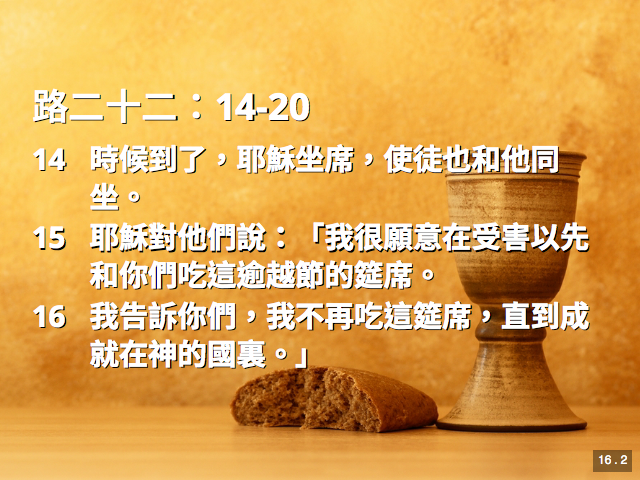
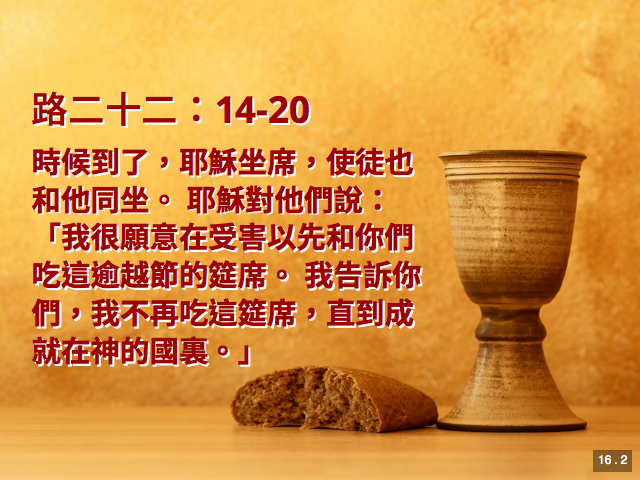
update

Changed region(s): [[0.0312, 0.1875, 0.9375, 0.7812]]

diff --git a/index.html b/index.html
@@ -587,41 +587,29 @@
 </section>
 </section>
 
-
 <section data-background-image="background/holy_communion_3.jpg" id="section12" class="bible">
 <section>
 	<h1>聖餐</h1>
 </section>
 <section>
 <h2>路二十二：14-20</h2>
-<div class="caption"><p>14</p></div>
-<div class="verse"><p>時候到了，耶穌坐席，使徒也和他同坐。</p>
-</div>
-<div class="clear"></div>
-<div class="caption"><p>15</p></div>
-<div class="verse"><p>耶穌對他們說：「我很願意在受害以先和你們吃這逾越節的筵席。</p>
-</div>
-<div class="clear"></div>
-<div class="caption"><p>16</p></div>
-<div class="verse"><p>我告訴你們，我不再吃這筵席，直到成就在神的國裏。」</p>
-</div>
+<p>
+時候到了，耶穌坐席，使徒也和他同坐。
+耶穌對他們說：「我很願意在受害以先和你們吃這逾越節的筵席。
+我告訴你們，我不再吃這筵席，直到成就在神的國裏。」
+</p>
 </section>
 <section>
-<div class="caption"><p>17</p></div>
-<div class="verse"><p>耶穌接過杯來，祝謝了，說：「你們拿這個，大家分着喝。</p>
-</div>
-<div class="clear"></div>
-<div class="caption"><p>18</p></div>
-<div class="verse"><p>我告訴你們，從今以後，我不再喝這葡萄汁，直等神的國來到。」</p>
-</div>
-<div class="clear"></div>
-<div class="caption"><p>19</p></div>
-<div class="verse"><p>又拿起餅來，祝謝了，就擘開，遞給他們，說：「這是我的身體，為你們捨的，你們也應當如此行，為的是記念我。」</p>
-</div>
-<div class="clear"></div>
-<div class="caption"><p>20</p></div>
-<div class="verse"><p>飯後也照樣拿起杯來，說：「這杯是用我血所立的新約，是為你們流出來的。</p>
-</div>
+<p>
+耶穌接過杯來，祝謝了，說：「你們拿這個，大家分着喝。
+我告訴你們，從今以後，我不再喝這葡萄汁，直等神的國來到。」
+</p>
+</section>
+<section>
+<p>
+又拿起餅來，祝謝了，就擘開，遞給他們，說：「這是我的身體，為你們捨的，你們也應當如此行，為的是記念我。」<br/>
+飯後也照樣拿起杯來，說：「這杯是用我血所立的新約，是為你們流出來的。
+</p>
 </section>
 </section>
 

diff --git a/index_pdf.html b/index_pdf.html
@@ -594,36 +594,26 @@
 </section>
 <section>
 <h2>路二十二：14-20</h2>
-<div class="caption"><p>14</p></div>
-<div class="verse"><p>時候到了，耶穌坐席，使徒也和他同坐。</p>
-</div>
-<div class="clear"></div>
-<div class="caption"><p>15</p></div>
-<div class="verse"><p>耶穌對他們說：「我很願意在受害以先和你們吃這逾越節的筵席。</p>
-</div>
-<div class="clear"></div>
-<div class="caption"><p>16</p></div>
-<div class="verse"><p>我告訴你們，我不再吃這筵席，直到成就在神的國裏。」</p>
-</div>
+<p>
+時候到了，耶穌坐席，使徒也和他同坐。
+耶穌對他們說：「我很願意在受害以先和你們吃這逾越節的筵席。
+我告訴你們，我不再吃這筵席，直到成就在神的國裏。」
+</p>
 </section>
 <section>
-<div class="caption"><p>17</p></div>
-<div class="verse"><p>耶穌接過杯來，祝謝了，說：「你們拿這個，大家分着喝。</p>
-</div>
-<div class="clear"></div>
-<div class="caption"><p>18</p></div>
-<div class="verse"><p>我告訴你們，從今以後，我不再喝這葡萄汁，直等神的國來到。」</p>
-</div>
-<div class="clear"></div>
-<div class="caption"><p>19</p></div>
-<div class="verse"><p>又拿起餅來，祝謝了，就擘開，遞給他們，說：「這是我的身體，為你們捨的，你們也應當如此行，為的是記念我。」</p>
-</div>
-<div class="clear"></div>
-<div class="caption"><p>20</p></div>
-<div class="verse"><p>飯後也照樣拿起杯來，說：「這杯是用我血所立的新約，是為你們流出來的。</p>
-</div>
+<p>
+耶穌接過杯來，祝謝了，說：「你們拿這個，大家分着喝。
+我告訴你們，從今以後，我不再喝這葡萄汁，直等神的國來到。」
+</p>
+</section>
+<section>
+<p>
+又拿起餅來，祝謝了，就擘開，遞給他們，說：「這是我的身體，為你們捨的，你們也應當如此行，為的是記念我。」<br/>
+飯後也照樣拿起杯來，說：「這杯是用我血所立的新約，是為你們流出來的。
+</p>
 </section>
 </section>
+
 
 <section data-background-image="background/images/v1_2_hi.png" data-background-image-loop="true" id="section13">
 <section>

diff --git a/css/slide.css b/css/slide.css
@@ -155,28 +155,18 @@ video {
 #section11>section>h1, #section11>section>p {
   text-shadow: 3px 3px #000;
 }
-#section12>h1, #section12>p {
-  text-shadow: 3px 3px #000;
+
+#section12>section {
+  width: 70%;
 }
-#section12>section>.caption, .bible>.caption {
-  width: 5%;
-  float: left;
-  font-weight: bold;  
+#section12 h1, #section12 h2, #section12 p {
+  color: #9e0000;
+  text-shadow: 3px 3px #fff;
 }
-#section12>section>.verse, .bible>.verse {
-  width: 90%;
-  float: right;
-  font-weight: bold;  
-  padding: 0px;
-  margin: 0px;
-}
-#section12>section p {
+#section12 p {
   font-size: 1.3em;
   padding: 0px;
   margin: 0px;
-}
-#section12>section p, #section12>section h1, #section12>section h2 {
-  text-shadow: 2px 2px #000;
 }
 
 #section13>section>h1, #section13>section>p {

diff --git a/plugin/notes/notes.html b/plugin/notes/notes.html
@@ -525,6 +525,7 @@
 {"seq":85, "h":16, "v":1},
 {"seq":851, "h":16, "v":2},
 {"seq":852, "h":16, "v":3},
+{"seq":853, "h":16, "v":3},
 {"seq":86, "h":17, "v":1},
 {"seq":87, "h":17, "v":2},
 {"seq":88, "h":17, "v":3},
